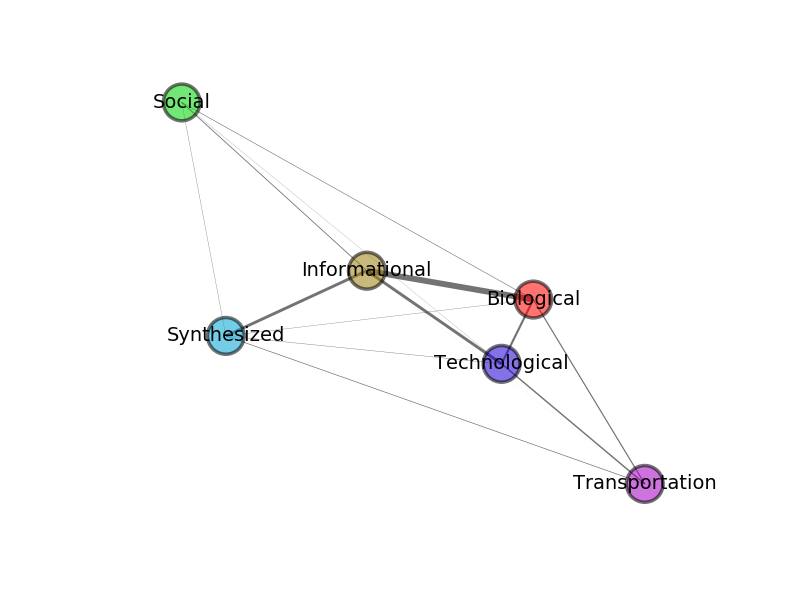
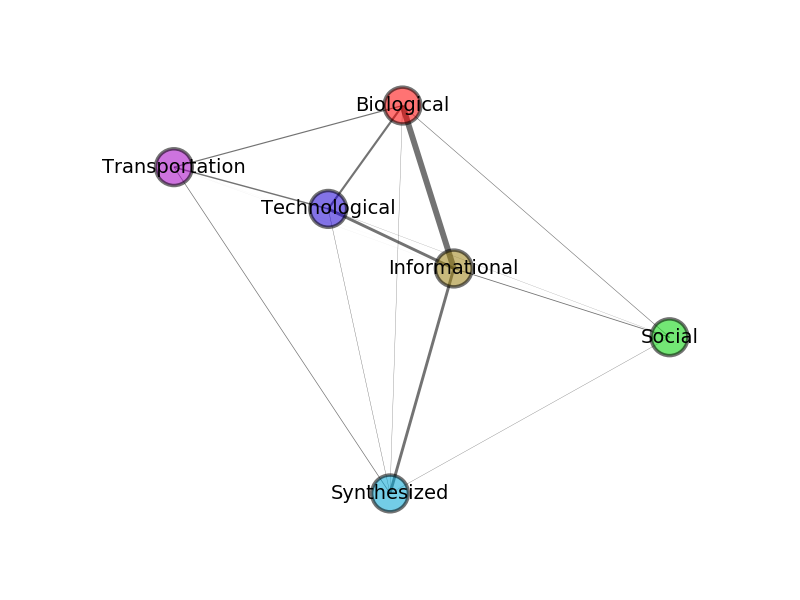
Redrew networks.

diff --git a/Thesis.tex b/Thesis.tex
@@ -515,7 +515,7 @@ The diagonal elements of confusion matrices shown in Fig.\ref{confusion} indicat
 
 Although it is a meaningful result that the instances of network domains may inherently be separable, our focus now moves on to the off-diagonal elements of confusion matrices. In all matrices, a number of instances of Informational networks are classified as other domains, such as Biological, Synthesized and Technological which is observable from elements of a row corresponding to  "true Informational." Also some instances of network domains are classified as Biological networks, observed in elements of a column corresponding to "predicted Biological." 
 
-These pieces of information imply the existence of underlying similarities within network domains. However, it is hard to perceive the structure of inter-domain similarity just by looking at the confusion matrix. Therefore, we construct a "meta" network of network domains from a similarity matrix (weighted undirected adjacency matrix) that is constructed based on a confusion matrix that is shown in Fig.\ref{meta_network}. The operation for constructing the similarity matrix based on the normalized confusion matrix is straightforward: we symmetrize the matrix by taking the maximum of two elements in the matrix that are symmetric to each other with respect to a diagonal line. In all cases Biological, Informational and Technological domains are connected with wide edges together, indicating their structural similarities derived from confusion matrices are quite high. From the figure, it appears that there is no "winning" sampling method that produces an outstanding result of a meta network, which means that all of the sampling methods practically produce meta networks that are practically the same.
+These pieces of information imply the existence of underlying similarities within network domains. However, it is hard to perceive the structure of inter-domain similarity just by looking at the confusion matrix. Therefore, we construct a network of network domains from a similarity matrix (weighted undirected adjacency matrix) that is constructed based on a confusion matrix that is shown in Fig.\ref{meta_network}. The operation for constructing the similarity matrix based on the normalized confusion matrix is straightforward: we symmetrize the matrix by taking the maximum of two elements in the matrix that are symmetric to each other with respect to a diagonal line. In all cases Biological, Informational and Technological domains are connected with wide edges together, indicating their structural similarities derived from confusion matrices are quite high. From the figure, it appears that there is no "winning" sampling method that produces an outstanding result of a subdomain network, which means that all of the sampling methods practically produce subdomain networks that are practically the same.
 
 
 This analysis which is based on network domains is informative in a sense that it consistently exhibits the well connected group of domains that includes Biological, Informational and Technological. However, each network domain includes sub-domains within itself and these network sub-domains are quite diverse in terms of network's function. For example, neural networks in a brain and ecological food web, both in Biological domain, function very differently. Grouping sub-domains of different functions together as a single category may lose some information local to a specific sub-domain. Therefore, we proceed to analyze the networks on a more fine-grained setting, namely using network sub-domains as the class label in classification tasks.
@@ -564,17 +564,19 @@ This analysis which is based on network domains is informative in a sense that i
 \caption{SMOTE.} \label{smote_graph}
 \end{subfigure}
 \
-\caption{Meta networks for different sampling strategies. The widths of edges are proportional to the magnitude of the value in a symmetrized, normalized confusion matrix. Biological, Informational and Technological domains are well connected in all cases.} \label{meta_network}
+\caption{subdomain networks for different sampling strategies. The widths of edges are proportional to the magnitude of a value in a symmetrized, normalized confusion matrix. Biological, Informational and Technological domains are well connected in all cases.} \label{meta_network}
 \end{figure}
 
 
 \subsubsection{Network Sub-domains}
 Here we continue the same analysis as we have done in the previous section, but using network sub-domains as class labels for classification tasks.
-Although in total we have 33 network sub-domains as shown in Fig. \ref{sub_dist}, some sub-domains have only few instances, which makes it infeasible to proceed to classification tasks as they involve train-test split of data and SMOTE assumes a training set to have enough amount of instances for selecting $k$ nearest neighbors. Therefore we first exclude sub-domains that the number of instances within themselves are less than seven, which enables us to split the train and test sets in the ratio of $7:3$ while keeping the class distribution in both sets the same and SMOTE to successfully find $k=3$ nearest neighbors for any sub-domain. This filtering results in 22 network sub-domains for this analysis. 
+Although in total we have 33 network sub-domains as shown in Fig. \ref{sub_dist}, some sub-domains have only few instances, which makes it infeasible to proceed to classification tasks as they involve train-test split of data and SMOTE assumes a training set to have enough amount of instances for selecting $k$ nearest neighbors. Therefore we first exclude sub-domains that the number of instances within themselves are less than seven, which enables us to split the training and test sets in the ratio of $7:3$ while keeping the class distribution in both sets the same and SMOTE to successfully find $k=3$ nearest neighbors for any sub-domain. This filtering results in 22 network sub-domains for this analysis\footnote{The excluded network subdomains are: Language, Relatedness, Legal, Commerce, Recommendations, Collaboration, Fiction, Relationships, Email, Power grid and Airport.}. 
 
-Same as the previous setting for network domain, we run classification tasks 1000 times for each sampling method, aggregate resulting confusion matrices, normalize and symmetrize them. Figure \ref{confusion_sub} shows the aggregated confusion matrices for each sampling method in which we can observe that all of the confusion matrices exhibit the diagonal pattern, an indication of underlying separability of network sub-domains. Note that, however, some sub-domains such as bayesian, web graph, offline social, water distribution and software dependency, are often not classified correctly which may be due to the few instances and/or the fact that underlying structures of their instances are actually quite similar to ones of other sub-domains.
+Same as the previous setting for network domain, we run classification tasks 1000 times for each sampling method, aggregate, normalize and symmetrize the resulting confusion matrices. Figure \ref{confusion_sub} shows the aggregated confusion matrices for each sampling method in which we can observe that all of the confusion matrices exhibit the diagonal pattern, an indication of underlying separability of network sub-domains. Note that, however, some sub-domains such as bayesian, web graph, offline social, water distribution and software dependency, are often not classified correctly which may be due to the few instances and/or the fact that network structures of their instances are actually quite similar to the ones of other sub-domains. It is obvious to notice that the aggregated confusion matrix for random under-sampling displays fewer white cells within itself, meaning that under this sampling method the classifier confused a number of sub-domains with other sub-domains.
 
-In order to visualize the underlying similarities within network sub-domain, we again construct meta networks of sub-domains based on a weighted undirected adjacency matrix derived from aggregated confusion matrices, shown in Fig.\ref{meta_network}. From this figure, we can observe the network domain is not necessarily a good indicator of sub-domain clustering: informational networks including web graph, bayesian and peer to peer network and biological networks, such as metabolic, fungal, food web, etc. are not clustered together, meaning that we do not observe the sub-domains having the same color forming a community together. Then the question is: \textit{What could be a good indicator of similarity in networks of different kinds?} In order to answer this question, we first need to discover the communities of meta networks which are groups of nodes within which the edge density is high, but between which the edge density is low.
+In order to visualize the underlying similarities within network sub-domain, we again construct networks of sub-domains based on a weighted undirected adjacency matrix derived from aggregated confusion matrices, shown in Fig.\ref{meta_network}. From this figure, we can observe that the network domain is not necessarily a good indicator of sub-domain clustering: informational networks including web graph, bayesian and peer to peer network and biological networks, such as metabolic, fungal, food web, etc. are not clustered together, meaning that we do not observe the sub-domains having the same color forming a community together. This could be attributed to the fact that some network domains, such as biological networks, entail a broad spectrum of network sub-domains within itself whose instances are drastically different in terms of the physical size of the things nodes represent (from cells to animals) and the process of networks (from chemical reactions to prey-predator relationships). 
+
+Then the question is: \textit{What could be a good indicator of similarity in networks of different kinds?} In order to answer this question, we first need to discover the communities of subdomain networks which are groups of nodes within which the weighted edge density is high, but between which the weighted edge density is low.
 
 \begin{figure}[H]
 	\begin{subfigure}{0.48\textwidth}
@@ -602,52 +604,55 @@ In order to visualize the underlying similarities within network sub-domain, we 
 \begin{figure}[H]
 	\begin{subfigure}{0.48\textwidth}
 	\includegraphics[width=\linewidth]{figs/similarity/SubDomain/None/g.png}
-	\caption{Meta network based on no sampling.} \label{no_graph_sub_original}
+	\caption{subdomain network based on no sampling.} \label{no_graph_sub_original}
 	\end{subfigure}\hspace*{\fill}
 	\begin{subfigure}{0.48\textwidth}
 	\includegraphics[width=\linewidth]{figs/similarity/SubDomain/RandomOver/g.png}
-	\caption{Meta network based on random over-sampling.} \label{random_over_graph_sub_original}
+	\caption{subdomain network based on random over-sampling.} \label{random_over_graph_sub_original}
 	\end{subfigure}
 	
 	\medskip
 	\begin{subfigure}{0.48\textwidth}
 	\includegraphics[width=\linewidth]{figs/similarity/SubDomain/RandomUnder_all5/g.png}
-	\caption{Meta network based on random under-sampling.} \label{random_under_graph_sub_original}
+	\caption{subdomain network based on random under-sampling.} \label{random_under_graph_sub_original}
 	\end{subfigure}\hspace*{\fill}
 	\begin{subfigure}{0.48\textwidth}
 	\includegraphics[width=\linewidth]{figs/similarity/SubDomain/SMOTE/g.png}
-	\caption{Meta network based on SMOTE.} \label{smote_graph_sub_original}
+	\caption{subdomain network based on SMOTE.} \label{smote_graph_sub_original}
 	\end{subfigure}
 \
-\caption{The meta networks of network sub-domains. The color of each node corresponds to a domain the sub-domain (node) belongs to.} \label{meta_network}
+\caption{The networks of sub-domains. The color of each node corresponds to a domain the sub-domain (node) belongs to and width of each edge corresponds to the similarity of sub-domains derived from the aggregated confusion matrix.} \label{meta_network}
 \end{figure}
 
 \begin{figure}[H]
 	\begin{subfigure}{0.48\textwidth}
 	\includegraphics[width=\linewidth]{figs/similarity/SubDomain/None/g_community.png}
-	\caption{Meta network based on no sampling. The number of communities is $4$.} \label{no_graph_sub_community}
+	\caption{subdomain network based on no sampling. The number of communities is $4$.} \label{no_graph_sub_community}
 	\end{subfigure}\hspace*{\fill}
 	\begin{subfigure}{0.48\textwidth}
 	\includegraphics[width=\linewidth]{figs/similarity/SubDomain/RandomOver/g_community.png}
-	\caption{Meta network based on random over-sampling sampling.  The number of communities is $4$.} \label{random_over_graph_sub_community}
+	\caption{subdomain network based on random over-sampling sampling.  The number of communities is $4$.} \label{random_over_graph_sub_community}
 	\end{subfigure}
 	
 	\medskip
 	\begin{subfigure}{0.48\textwidth}
 	\includegraphics[width=\linewidth]{figs/similarity/SubDomain/RandomUnder_all5/g_community.png}
-	\caption{Meta network based on random under-sampling.  The number of communities is $3$.} \label{random_under_graph_sub_community}
+	\caption{subdomain network based on random under-sampling.  The number of communities is $3$.} \label{random_under_graph_sub_community}
 	\end{subfigure}\hspace*{\fill}
 	\begin{subfigure}{0.48\textwidth}
 	\includegraphics[width=\linewidth]{figs/similarity/SubDomain/SMOTE/g_community.png}
-	\caption{Meta network based on SMOTE.  The number of communities is $4$.} \label{SMOTE_graph_sub_community}
+	\caption{subdomain network based on SMOTE.  The number of communities is $4$.} \label{SMOTE_graph_sub_community}
 	\end{subfigure}
 \
-\caption{The meta networks of network sub-domains with community labelings. The color of a node now corresponds to a community found by the algorithm.} \label{meta_network_community}
+\caption{The networks of sub-domains with community labelings. The color of a node now corresponds to a community found by the algorithm and width of each edge corresponds to the similarity of sub-domains derived from the aggregated confusion matrix.} \label{meta_network_community}
 \end{figure}
 
-Fig.\ref{meta_network_community} shows the meta networks of sub-domains on which the colors of nodes correspond to the community membership found by a community detection algorithm proposed by Clauset \textit{et al.} \cite{CNMAlgorithm}. We have used the implementation of the modified version of this algorithm for weighted network that is available in Python-igraph as a method \texttt{community\_fastgreedy()} \cite{igraph}. From the figure \ref{meta_network_community}, one may notice that the community structure across different sampling methods is almost consistent, meaning the certain groups of sub-domains are always in the same community.  For instance, for all sampling methods, offline social, connectome and affiliation networks are in the same community. 
+Fig.\ref{meta_network_community} shows the networks of sub-domains on which the colors of nodes correspond to the community membership found by a community detection algorithm proposed by Clauset \textit{et al.} \cite{CNMAlgorithm}. We have used the implementation of the modified version of this algorithm for weighted network that is available in Python-igraph as a method \texttt{community\_fastgreedy()} \cite{igraph}. From Fig. \ref{meta_network_community}, one may notice that the community structure across different sampling methods is almost consistent, meaning the certain groups of sub-domains are always in the same community.  For instance, for all sampling methods, offline social, connectome and affiliation networks are in the same community. 
 
-Some network sub-domains, however, change the community membership for some meta networks. For instance, online social network and forest fire model networks join the community of off-line social network for no sampling, random-over sampling and random-under sampling method, but joins the community of software dependency (red color) for SMOTE sampling. This variation of community membership across all meta networks can be expressed in a matrix shown in the figure \ref{community_overlaps}. In this figure the frequency that two sub-domain share the same community membership corresponds to the color intensity. For instance offline social, connectome and affiliation networks are assigned to the same community four times. From this figure, one may notice that there appears to be three groups of sub-domains that are consistently assigned to the same community. The first one is a community of social networks including online and offline social networks as well as affiliation network and forest fire model  that was invented for modeling the large scale online social network with an exception of connectome, namely brain networks. The second group of sub-domains corresponds to the networks known for having the scale-free property which include scale-free network, metabolic network, web graph, etc. and these networks essentially grow according to a mechanism called preferential attachment. In this network generative process, newly added nodes in a network, for example newly created web page or software package, tend to connect to the popular or high-degree nodes, i.e. popular web sites or widely used software packages. The third and last group of sub-domains is the network of "flow" that includes electrical signal (digital circuit), information (bayesian), water (water distribution), nutrient (fungal), people/trains (subway) and cars (road).  Also, if we look at the meta networks, digital circuit and bayesian networks are always tightly connected together. This may be due to the fact that they are both an input-output network as well as being a flow network. The rest of the flow networks have another common property, that is, physical embedding of the network. These networks have a strong constraint of the physical limitation. For instance, it is almost impossible for a node in a physically embedded network to have a thousand connections upon it.
+Some network sub-domains, however, change the community membership for some subdomain networks. For instance, online social network and forest fire model networks join the community of off-line social network for no sampling, random-over sampling and random-under sampling method, but joins the community of software dependency (red color) for SMOTE sampling. This variation of community membership across all subdomain networks could be attributed to the effect of each sampling method on decision surfaces a classifier builds for classification. For instance, decision surfaces built by a classifier under the random under-sampling strategy should be shape-wise simple since the training set is very sparse in terms of the number of data points. On the other hand, decision surfaces built by a classifier for random over-sampling should be more toward shape-wise complicated and lead to over-fitting as the number of data points for training is larger and duplicated points force the classifier to adjust itself to those points. Therefore this variation of decision surfaces may lead some data points be classified differently for different sampling method, which ultimately leads to the variation of community memberships.
+
+
+In order to facilitate analyzing the variation of community memberships, we have constructed a matrix, shown in Fig.\ref{community_overlaps} in which the frequency that two sub-domain share the same community membership corresponds to the color intensity. For instance offline social, connectome and affiliation networks are assigned to the same community four times. From this figure, one may notice that there appears to be three groups of sub-domains that are consistently assigned to the same community. The first one is a community of social networks including online and offline social networks as well as affiliation network and forest fire model  that was invented for modeling the large scale online social network with an exception of connectome, namely brain networks. The second group of sub-domains corresponds to the networks known for having the scale-free property which include scale-free network, metabolic network, web graph, etc. and these networks essentially grow according to a mechanism called preferential attachment. In this network generative process, newly added nodes in a network, for example newly created web page or software package, tend to connect to the popular or high-degree nodes, i.e. popular web sites or widely used software packages. The third and last group of sub-domains is the network of "flow" that includes electrical signal (digital circuit), information (bayesian), water (water distribution), nutrient (fungal), people/trains (subway) and cars (road).  Also, if we look at the subdomain networks, digital circuit and bayesian networks are always tightly connected together. This may be due to the fact that they are both an input-output network as well as being a flow network. The rest of the flow networks have another common property, that is, physical embedding of the network. These networks have a strong constraint of the physical limitation. For instance, it is almost impossible for a node in a physically embedded network to have a thousand connections upon it.
 
 
 
@@ -672,22 +677,26 @@ Although there are some exceptional cases, our findings from this experiment pro
 %%%%%%%%%%%%%%%% --- New Chapter --- %%%%%%%%%%%%%%%%
 \newpage
 \section{Discussion}
-In the previous chapter, we have found the distinguishing features for various network sub-domains with possible explanations for the underlying processes of networks, and the hidden similarities among network domains and sub-domains based on meta networks we have constructed. In this chapter we are going to synthesize the our findings and the previous studies together.
+In the previous chapter, we have found the distinguishing features for various network sub-domains with possible explanations for the underlying processes of networks, and the hidden similarities among network domains and sub-domains based on subdomain networks we have constructed. In this chapter we are going to synthesize our findings and the previous studies together.
 
-In the investigation of distinguishing features and the separability of sub-domains, we have observed that some network sub-domains are hard to be separated in the feature space, which can be also seen in AUC score. This finding has an interesting connection with the meta networks we have constructed later: the sub-domains having high separability, such as online social networks and ecological food-webs, tend to be at the \textit{periphery} of the meta networks, whereas the subdomains having low separability, such as protein interaction networks and connectome, tend to be at the \textit{core} of the meta networks. In the meta networks, the core of nodes essentially depicts the sub-domains that are frequently misclassified by a classifier due to their structural similarity and the periphery displays sub-domains that are dissimilar to other sub-domains in terms of network structure. Therefore, it is relatively easy to infer that the sub-domains at the core that were not studied for finding the distinguishing features, such as digital circuits and web graphs, may also exhibit low separability in the feature space. 
-
-
- As we have seen in confusion matrices in the figure \ref{confusion}, network domains such as Biological, Social, etc. are quite separable in the feature space. Also, confusion matrices of network sub-domains exhibit the strong diagonal patterns except few such as bayesian network and web graphs, indicating the separability of networks at the sub-domain level. These separabilities of networks in the different levels (domain and sub-domain) tells us something about the \textit{manifold} of networks in the high dimensional feature space: in the feature space at the domain level, points that corresponds to individual networks in the same network domain make a manifold of an intricate shape. Each sub-domain in the specific domain forms a part of the entire manifold and the volume it covers may overlap with the one covered by the other. The confusion matrices for classification of network domain essentially indicates that manifolds, each corresponds to a network domain, reside in some region of the feature space with some overlaps with each other. If we decompose the manifolds into manifolds of network sub-domains, we see a different outcome. Some sub-domains in a network domain occupy some regions of the feature space that are completely separated; they correspond to the non-overlapping section of manifolds at the level of network domain. They include, for example, food webs for Biological, peer to peer for Informational, communication for Technological and roads for Transportation. Some network sub-domains, however, almost completely overlap in the feature space with other sub-domains, and they correspond to the overlapping section of manifolds at the network domain level. They include bayesian and web graphs for Informational and water distribution and software dependency for Technological. 
+In the investigation of distinguishing features and the separability of sub-domains, we have observed that some network sub-domains are hard to be separated in the high dimensional feature space, which can be also seen in AUC score. This finding has an interesting connection with the subdomain networks we have constructed later: the sub-domains having high separability, such as online social networks and ecological food-webs, tend to be at the \textit{periphery} of the subdomain networks, whereas the subdomains having low separability, such as protein interaction networks and connectome, tend to be at the \textit{core} of the subdomain networks. In the subdomain networks, the core of nodes essentially depicts the sub-domains that are frequently misclassified by a classifier due to their structural similarity and the periphery displays sub-domains that are dissimilar to other sub-domains in terms of network structure. Therefore, it is relatively easy to infer that the sub-domains at the core that were not studied for finding the distinguishing features, such as digital circuits and web graphs, may also exhibit low separability in the feature space. 
 
 
-This idea of thinking networks in a feature space as a manifold of complex shape has some previous studies. Avena-Koenigsberger \textit{et al.} have studied the idea of \textit{network morphospace} in which each axis corresponds to some feature related to the structure of networks, such as tree-ness, feed-forward ness and orderability \cite{NetworkMorphospace}. In this study, it is shown that different kinds of networks, such as technological, language and neural networks occupy some regions in the morphospace. One may notice in this study that some regions in morphospaces are not occupied at all by any networks. This observation gives us some question about the feature space: \textit{Are some regions of a feature space not habitable at all?} This question may be answered with the study done by Ugander \textit{et al.} \cite{Ugander:2013}. They have studied a feature space in which each axis corresponds to the sub graph frequency of networks and mathematically proved that there are some regions in the feature space that are not habitable at all. Interestingly, they observed that the real world networks, in this case Facebook networks, only occupy some parts of the habitable space. Taken together, these studies suggest that networks in the high dimensional feature occupy some regions of the entire possible space that is theoretically feasible. This phenomenon may be due to the fact that the space not occupied yet theoretically feasible corresponds to an inefficient structure of a network. Many of the biological networks and technological networks are optimized for a functioning by either natural selection over the course of evolution or effort of designing by a number of engineers and this may push the networks into a certain region in the feature space that happens to be occupied by the both kinds of networks. This is supported by one of our findings that fungal network, a kind of biological network developed by the evolutionary strategy, and water distribution networks, a kind of network designed by engineers, are structurally similar and their optimization is essentially for efficient flow on the network and cost-reduction of wiring.
+ As we have seen in confusion matrices in the figure \ref{confusion}, network domains such as Biological, Social, etc. are quite separable in the feature space. Also, confusion matrices of network sub-domains exhibit the strong diagonal patterns except a few such as bayesian network and web graphs, indicating the separability of networks at the sub-domain level. These separabilities of networks in the different levels (domain and sub-domain) tells us something about the \textit{manifold} of networks in the high dimensional feature space: in the feature space at the domain level, points that corresponds to individual networks in the same network domain make a manifold of an intricate shape. Each sub-domain in the specific domain forms a part of the entire manifold and the volume it covers may overlap with the one covered by the other. The confusion matrices for classification of network domain essentially indicates that manifolds, each corresponds to a network domain, reside in some region of the feature space with some overlaps with each other. If we decompose the manifolds into manifolds of network sub-domains, we see a different outcome. Some sub-domains in a network domain occupy some regions of the feature space that are completely separated; they correspond to the non-overlapping section of manifolds at the level of network domain. They include, for example, food webs for Biological, peer to peer for Informational, communication for Technological and roads for Transportation. Some network sub-domains, however, almost completely overlap in the feature space with other sub-domains, and they correspond to the overlapping section of manifolds at the network domain level. They include bayesian and web graphs for Informational and water distribution and software dependency for Technological. 
+
+
+This idea of thinking networks in a feature space as a manifold of complex shape has some previous studies. Avena-Koenigsberger \textit{et al.} have studied the idea of \textit{network morphospace} in which each axis corresponds to some feature related to the structure of networks, such as tree-ness, feed-forwardness and orderability \cite{NetworkMorphospace}. In this study, it is shown that different kinds of networks, such as technological, language and neural networks occupy some regions in the morphospace. One may notice in this study that some regions in morphospaces are not occupied at all by any networks. This observation gives us some question about the feature space: \textit{Are some regions of a feature space not habitable at all?} This question may be answered with the study done by Ugander \textit{et al.} \cite{Ugander:2013}. They have studied a feature space in which each axis corresponds to the sub graph frequency of networks and mathematically proved that there are some regions in the feature space that are not habitable at all. Interestingly, they observed that the real world networks, in this case Facebook networks, only occupy some parts of the habitable space. Taken together, these studies suggest that networks in the high dimensional feature occupy some regions of the entire possible space that is theoretically feasible. This phenomenon may be due to the fact that the space not occupied yet theoretically feasible corresponds to an inefficient structure of a network. Many of the biological networks and technological networks are optimized for a functioning by either natural selection over the course of evolution or effort of designing by a number of engineers and this may push the networks into a certain region in the feature space that happens to be occupied by the both kinds of networks. This is supported by one of our findings that fungal network, a kind of biological network developed by the evolutionary strategy, and water distribution networks, a kind of network designed by engineers, are structurally similar and their optimization is essentially for efficient flow on the network and cost-reduction of wiring.
  
  
  %%%%%%%%%%%%%%%% --- New Chapter --- %%%%%%%%%%%%%%%%
 %\newpage
 
  \section{Conclusion}
- In this thesis we have studied 986 real-world networks along with 575 synthesized networks in order to understand the structure of complex networks across various domains and sub-domains. Our study successfully identified the distinguishing features for network sub-domains including protein interaction, metabolic, ecological food web, connectome, online social and communication networks and found out some of these features can naturally explain the process in the network of interest. Using machine learning techniques such as random forest classifier, confusion matrix and community detection algorithm, our study uncovered the underlying principles of network structure: the functionality, constraint and growing mechanism of a network play an important role for construction of networks having certain structural properties.
+ In this thesis we have studied 986 real-world networks along with 575 synthesized networks in order to establish a general theory of the structure of complex networks across various domains and sub-domains.
+ 
+  Our study successfully identified the distinguishing features for some network sub-domains including, metabolic, ecological food web, online social and communication networks and found out some of these features could naturally explain the process in the network of interest. There are sub-domains, however, that seem to be indistinguishable from others with a set of features we have utilized 
+  
+  Using machine learning techniques such as random forest classifier, confusion matrix and community detection algorithm, our study uncovered the underlying principles of network structure: the functionality, constraint and growing mechanism of a network play an important role for the construction of networks having certain structural properties.
  
  
  %%%%%%%%%%%%%%%% --- New Chapter --- %%%%%%%%%%%%%%%%
